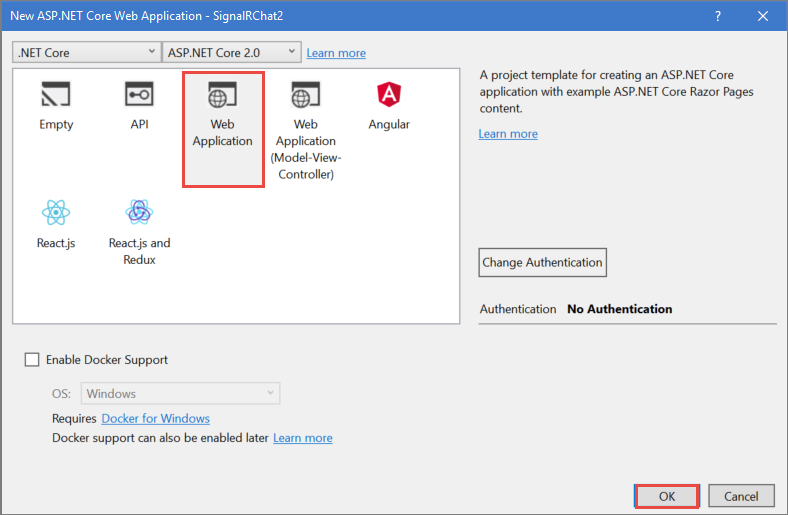
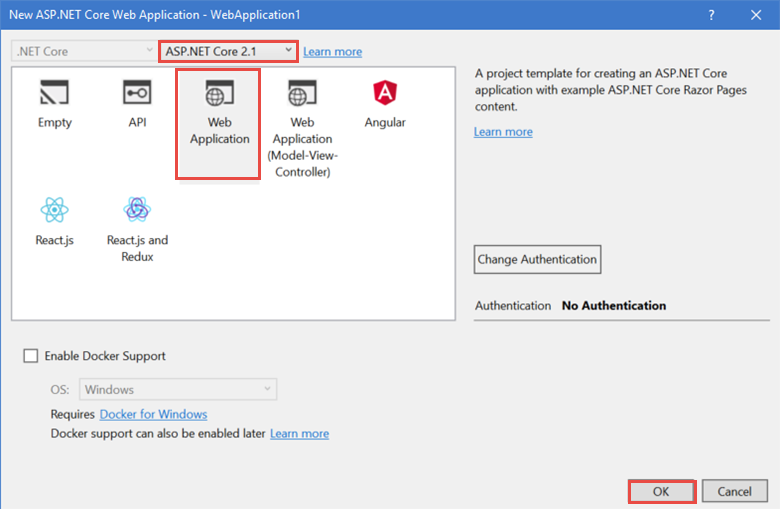
feedback mods

diff --git a/aspnetcore/signalr/get-started-signalr-core/sample/chat.js b/aspnetcore/signalr/get-started-signalr-core/sample/chat.js
@@ -1,5 +1,4 @@
-var connection = new signalR.HubConnection('chathub');
-connection.start().catch(err => showErr(err));
+var connection = new signalR.HubConnection('chat');
 
 connection.on('Send', (timestamp, user, message) => {
     var encodedUser = user;
@@ -19,7 +18,9 @@ document.getElementById('send').addEventListener('click', event => {
 
 function showErr(msg) {
     var listItem = document.createElement('li');
-    listItem.setAttribute("font-color", "red");
+    listItem.setAttribute("style", "color: red");
     listItem.innerHTML = msg;
     document.getElementById('messages').appendChild(listItem);
 }
+
+connection.start().catch(err => showErr(err));

diff --git a/aspnetcore/signalr/get-started-signalr-core/sample/Startup.cs b/aspnetcore/signalr/get-started-signalr-core/sample/Startup.cs
@@ -39,7 +39,7 @@ namespace SignalRCoreChat
 
             app.UseSignalR(routes =>
             {
-                routes.MapHub<ChatHub>("chat");
+                routes.MapHub<ChatHub>("hubs/chat");
             });
 
             app.UseMvc(routes =>

diff --git a/aspnetcore/signalr/get-started-signalr-core.md b/aspnetcore/signalr/get-started-signalr-core.md
@@ -15,14 +15,14 @@ ms.custom: mvc
 
 By [Rachel Appel](https://twitter.com/rachelappel)
 
-This tutorial teaches the basics of building a real-time app using SignalR for ASP.NET Core. 
+This tutorial teaches the basics of building a real-time app using SignalR for ASP.NET Core.
 
   ![Solution](get-started-signalr-core/_static/signalr-get-started-finished.png)
 
 This tutorial demonstrates the following SignalR development tasks:
 
 > [!div class="checklist"]
-> * Add the SignalR library to an ASP.NET Core web app.
+> * Create a SignalR on ASP.NET Core web app.
 > * Create a SignalR hub to push content to clients.
 > * Modify the `Startup` class to configure the app.
 > * Use the SignalR JavaScript library to send messages and display updates from the hub.
@@ -31,7 +31,7 @@ This tutorial demonstrates the following SignalR development tasks:
 
 Install the following:
 
-* [.NET Core 2.0.0 SDK](https://www.microsoft.com/net/core) or later.
+* [.NET Core 2.1.0 Preview 1 SDK](https://www.microsoft.com/net/core) or later.
 * [Visual Studio 2017](https://www.visualstudio.com/downloads/) version 15.6 or later with the ASP.NET and web development workload.
 
 ## Create an ASP.NET Core project that uses SignalR
@@ -40,25 +40,19 @@ Install the following:
 
   ![New Project dialog in Visual Studio](get-started-signalr-core/_static/signalr-new-project-dialog.png)
 
-1. Select **Web Application** which creates a project using Razor Pages. Then select **Ok**.
+1. Select **Web Application** which creates a project using Razor Pages. Then select **Ok**. Be sure that **ASP.NET Core 2.1** is selected from the framework selector.
 
   ![New Project dialog in Visual Studio](get-started-signalr-core/_static/signalr-new-project-choose-type.png)
 
-1. Add the `Microsoft.AspNetCore.SignalR` NuGet package to the ASP.NET Core project. Select **Tools** > **NuGet Package Manager** > **Package Manager Console**. In the console, issue the following command:
+The libraries that contain SignalR server-side code are included in the project template. You must include the client side JavaScript file.
 
-  ```powershell
-  Install-Package Microsoft.AspNetCore.SignalR –IncludePrerelease
-  ```
-
-  The preceeding command installs the [Microsoft.AspNetCore.SignalR](https://www.nuget.org/packages/Microsoft.AspNetCore.SignalR) NuGet package that contains libraries SignalR server-side code.
-
-1. Install the JavaScript client library by using npm. `npm install` creates a *\node_modules\* folder and sub-folders for the libraries in the same location as where you run the npm command.
+1. Install the JavaScript client library by using npm. `npm install` creates a *node_modules* folder and sub-folders for the libraries in the same location as where you run the npm command.
 
   ```console
    npm install @aspnet/signalr-client --save
   ```
 
-1. Copy the *signalr-client-1.0.0-alpha2-final.js* for SignalR from *\node_modules\@aspnet\signalr-client\dist\browser* to the *wwwroot\lib* folder in your project.
+1. Copy the *signalr.js* for SignalR from *node_modules\\@aspnet\signalr\dist\browser* to the *wwwroot\lib* folder in your project.
 
 ## Create the SignalR Hub
 
@@ -92,17 +86,17 @@ The SignalR server must be configured so that it knows to pass requests to Signa
 
   The preceding HTML displays name and message fields, and a submit button. Notice the script references at the bottom: a reference to SignalR and *chat.js*.
 
-1. Add a JavaScript file to the *\wwwroot\js\* folder named *chat.js* and add the following code to it:
+1. Add a JavaScript file to the *wwwroot\js* folder named *chat.js* and add the following code to it:
 
-  [!code-html[Index](get-started-signalr-core/sample/chat.js)]
+  [!code-javascript[Index](get-started-signalr-core/sample/chat.js)]
 
 ## Run the app
 
 1. Select **Debug** > **Start without debugging** to launch a browser and load the website locally. Copy the URL from the address bar.
 
-1. Open another browser instance and paste in the URL.
+1. Open another browser instance and paste the URL in the address bar. The browser can be the same
 
-1. Choose either browser and enter a name and message, and click the **Send** button. The name and message are displayed on both pages instantly.
+1. Choose either browser, enter a name and message, and click the **Send** button. The name and message are displayed on both pages instantly.
 
   ![Solution](get-started-signalr-core/_static/signalr-get-started-finished.png)
 
